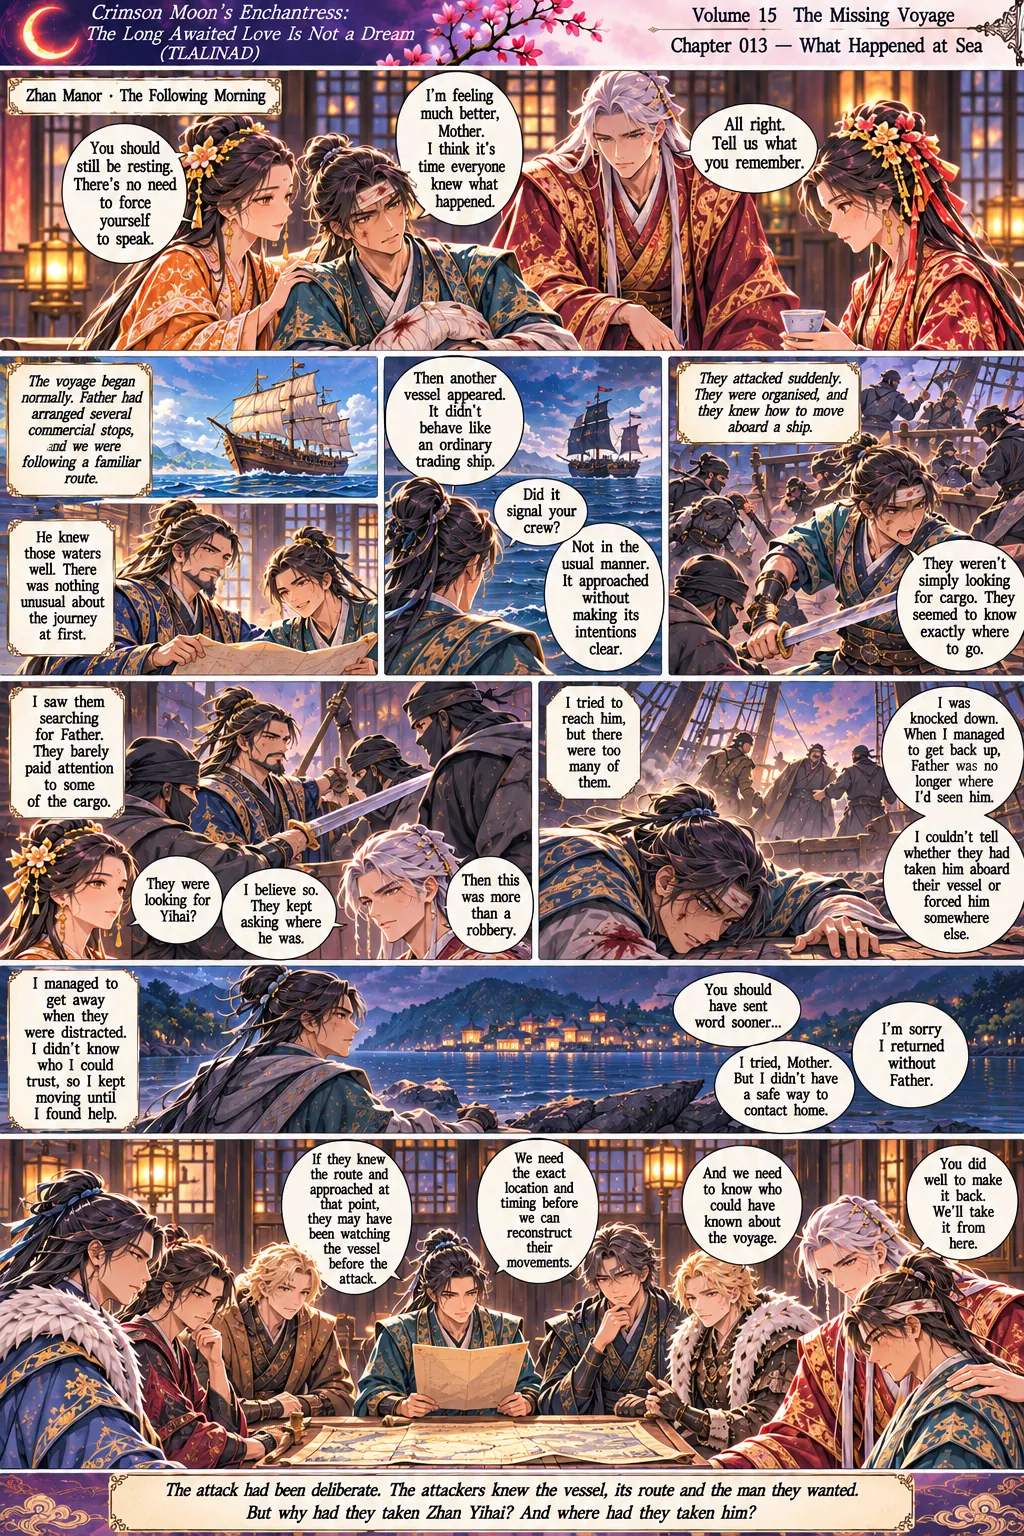
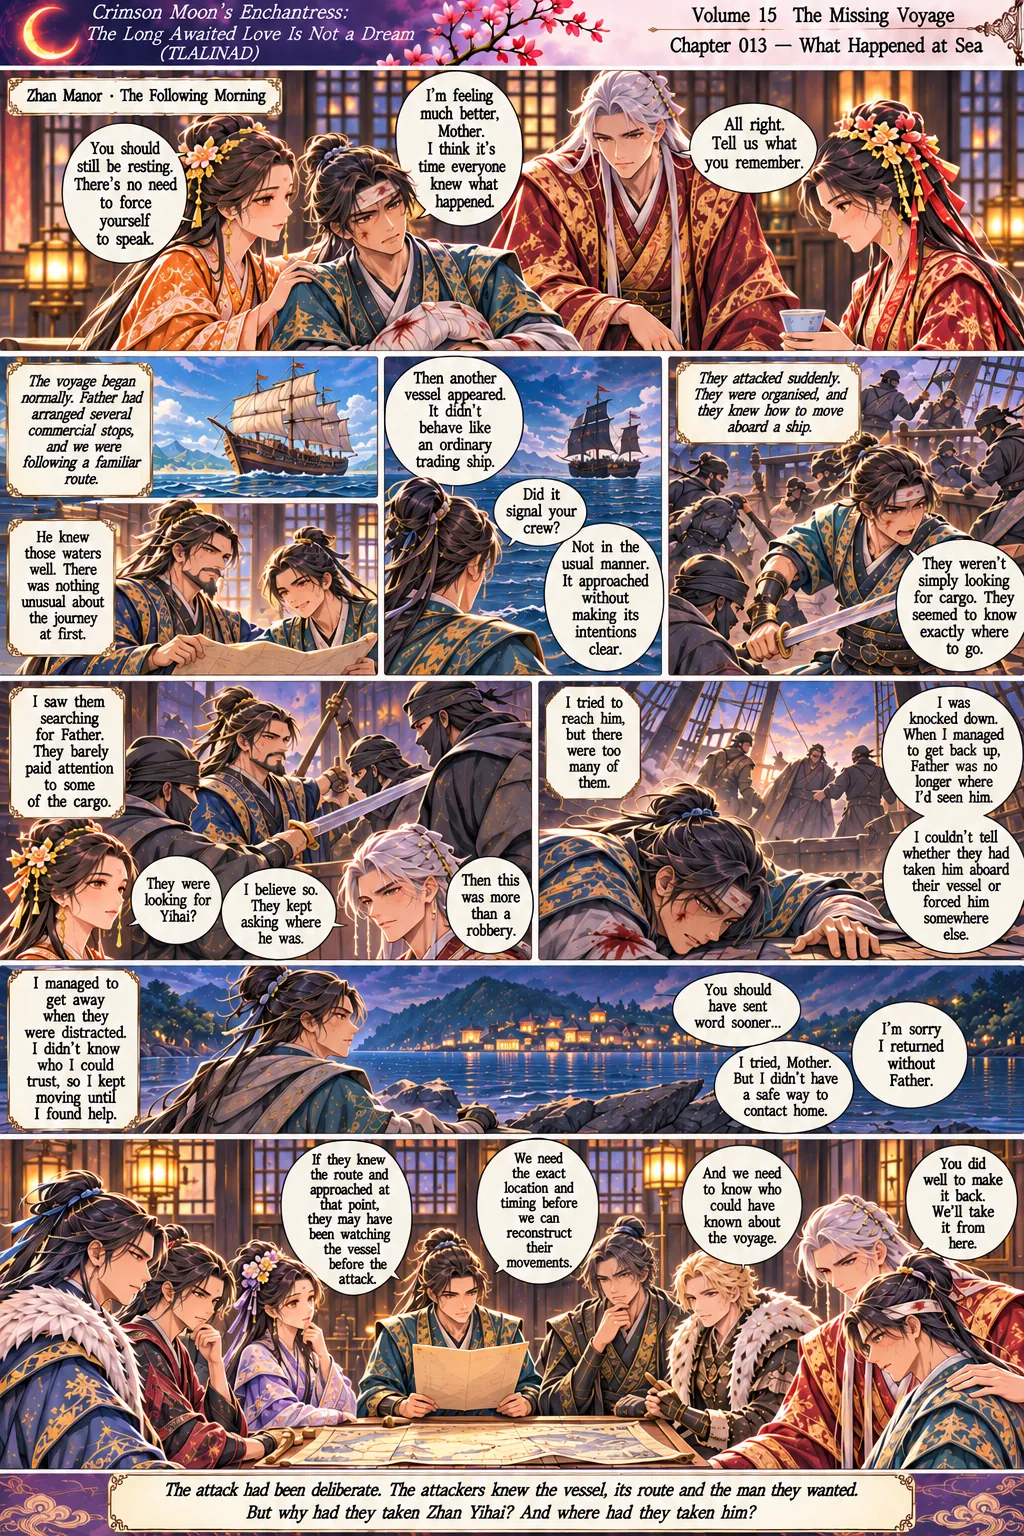
Volume 15 comic 013: install fixed page (single Hoko)
Claude-Session: https://claude.ai/code/session_01XEYzSJa6dBuS74MycM45Hs

diff --git a/sw.js b/sw.js
@@ -1,5 +1,5 @@
 /* Crimson Moon service worker: app shell cached for offline play; images/comics cached as you play. */
-const VERSION = 'crimson-moon-v117';
+const VERSION = 'crimson-moon-v118';
 const SHELL = ['./', './index.html', './styles.css', './manifest.webmanifest',
   './scripts/characters.js','./scripts/chapters.js','./scripts/script.js','./scripts/script_v2.js','./scripts/hooks.js','./scripts/bounties.js','./scripts/relations.js','./scripts/board.js','./scripts/rest.js','./scripts/banter.js','./scripts/base.js','./scripts/herbal.js','./scripts/personal.js','./scripts/equip.js','./scripts/ledger.js','./scripts/seal.js','./scripts/people.js','./scripts/core.js','./scripts/enemies.js','./scripts/battle.js','./scripts/confrontation.js','./scripts/journal.js','./scripts/temple.js','./assets/maps/ice_temple.webp','./assets/maps/ice_temple_v4.webp','./assets/maps/ice_temple_lower_v4.webp','./assets/volume4_cover.webp','./assets/volume5_cover.webp','./assets/volume6_cover.webp','./assets/volume7_cover.webp','./assets/volume8_cover.webp','./assets/volume9_cover.webp','./assets/volume10_cover.webp','./assets/volume11_cover.webp','./assets/volume12_cover.webp','./assets/volume13_cover.webp','./assets/volume14_cover.webp',
   './scripts/savedata.js','./scripts/storypopup.js','./scripts/ui.js','./assets/splash.webp','./assets/volume1_cover.webp','./assets/icons/icon-192.png','./assets/icons/icon-512.png','./assets/icons/icon-maskable-192.png','./assets/icons/icon-maskable-512.png'];

diff --git a/docs/VOLUME2.md b/docs/VOLUME2.md
@@ -645,3 +645,6 @@ Installed the sheet, cast-card portraits for Zhan Donglin and Zhan Qiumin (cropp
 - **Also saved:** the "Main Cast Outfit Upgrades" sheet (Volume 8 city chapter travel attire) as `assets/cast/outfit_upgrades_v8.webp` (reference only, not wired in).
 - **Headless test:** chapters 460-524 complete without errors, Qiumin joins at 522, comic pages load, Journal/Party/People render.
 - **For the author:** (1) Xining stays at the manor (recovering and pregnant); she is married to Dongyue at 518 but still away from the active party. (2) 016-017 show only Qiumin, Ya'Xing, Dongyue, Xiao Tian, Hoko and Xiao Yan on the road; Xiyu, Cangyuan, Liechen are not shown, so please confirm who travels. (3) 004 calls Qiumin by name before Ya'Xing connects it to Dongyue's family; I kept it as drawn. (4) Next page to upload: Volume 15 comic 018 (chapter 525). Volume 15 cover not yet received.
+
+## Volume 15 comic 013 replaced with the fixed page
+- The corrected "What Happened at Sea" (chapter 520) is installed. Its closing table scene now shows one blonde Hoko only.
